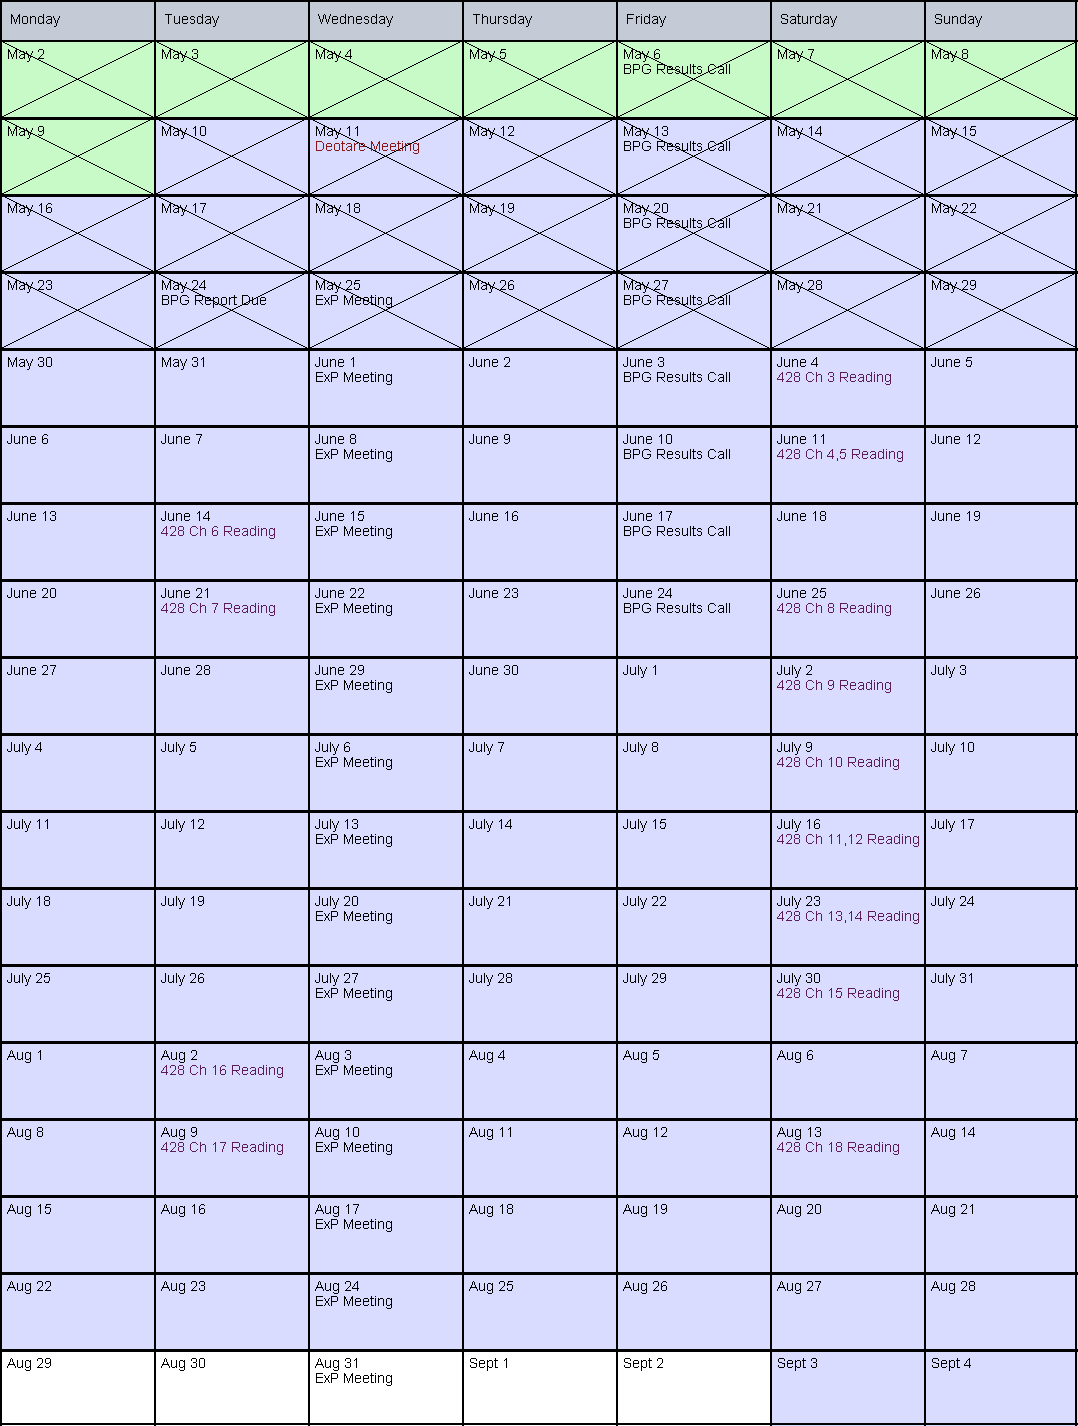
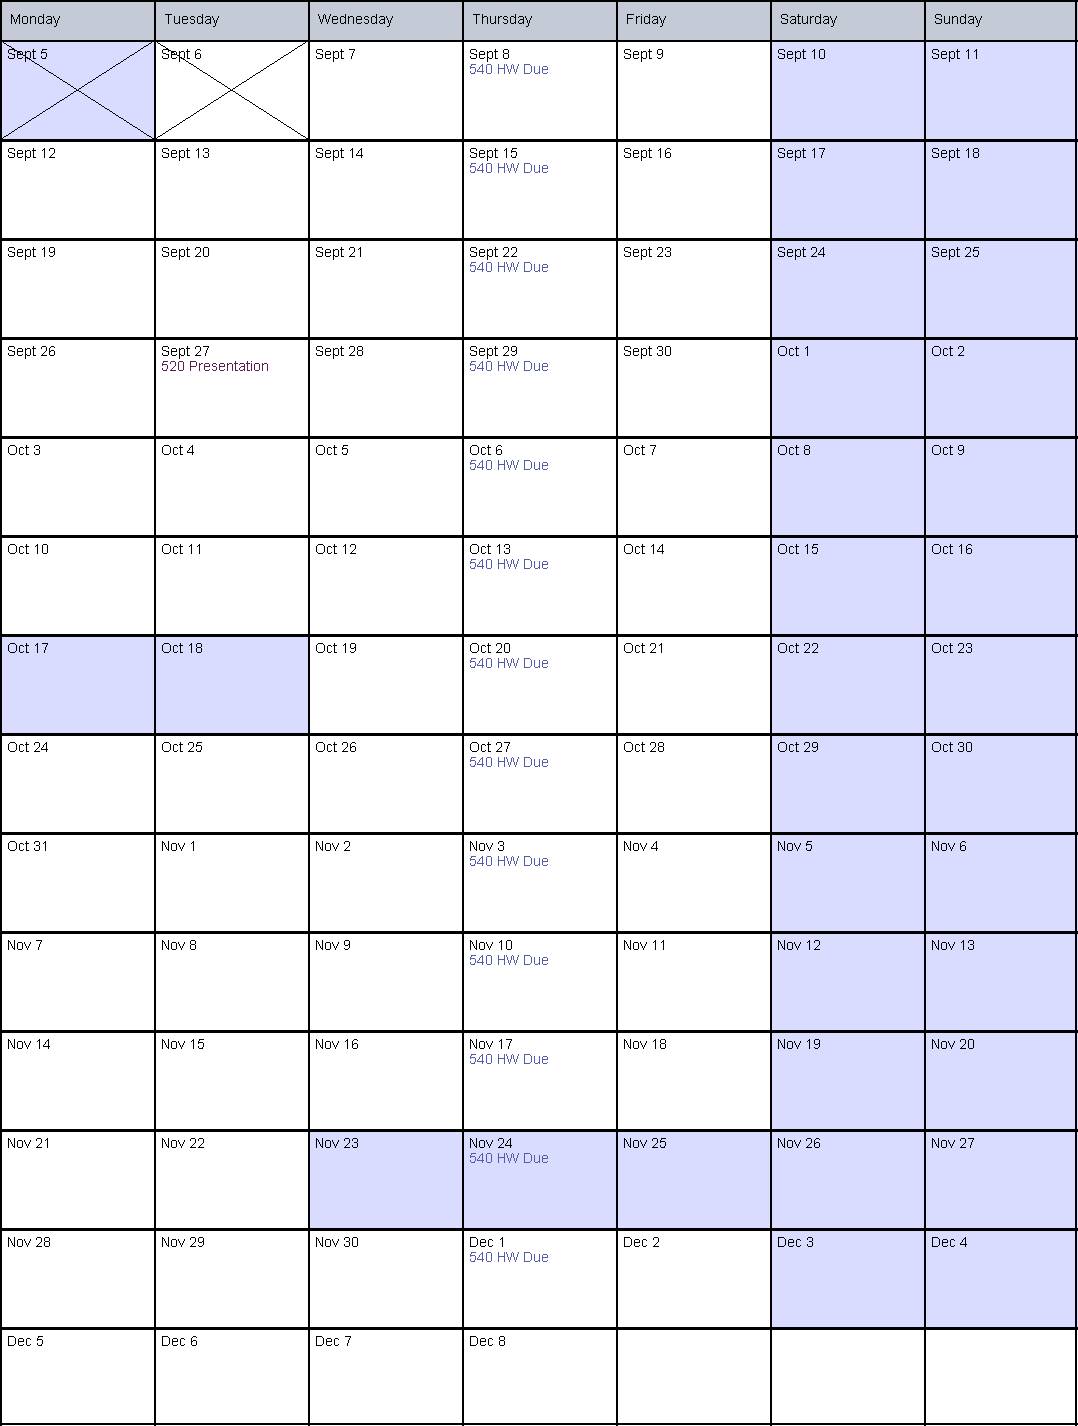
updates

diff --git a/src/Calendar.java b/src/Calendar.java
@@ -30,8 +30,8 @@ public class Calendar extends Applet implements Runnable, KeyListener {
     int[] daysPerMonth=new int[]{ 31  , 28  , 31  , 30  , 31  , 30   , 31   , 31  , 30   , 31  , 30  , 31  };
     String[] months=new String[]{"Jan","Feb","Mar","Apr","May","June","July","Aug","Sept","Oct","Nov","Dec"};
     int adj=5;
-    int start=getDayofYear(2,5);
-    int end=getDayofYear(4,9);
+    int start=getDayofYear(5,9);
+    int end=getDayofYear(8,12);
     int rows=(int)(Math.ceil((end-start)/7.0));
     int currentDay=start;
     ArrayList<String>[] events;
@@ -85,9 +85,9 @@ public class Calendar extends Applet implements Runnable, KeyListener {
     //           ADD EVENTS TO THE CALENDAR
     public void addEvents(){
         addWeeklyEvents();
-        addEvent("BPG Report Due",getDayofYear(24,5),0);
-        addEvent("Deotare Meeting",getDayofYear(11,5),2);
-        add428();
+        //addEvent("BPG Report Due",getDayofYear(24,5),0);
+        addEvent("520 Presentation",getDayofYear(27,9),4);
+        //add428();
 
     }
 
@@ -121,15 +121,15 @@ public class Calendar extends Applet implements Runnable, KeyListener {
         int fdoexp=getDayofYear(30-7,5);
         for (int i=start; i<=end; i++){
             int day=getDayOfWeek(i);
-            /*if (!(i<fdos || i>ldos)) {
-                /*if (i>secondweek){
-                    if (day == 2) {
-                        //addEvent("301 HW Due", i, 5);
+            if (i> getDayofYear(7,9) && i<getDayofYear(7,12)) {
+                if (i>secondweek){
+                    if (day == 3) {
+                        addEvent("540 HW Due", i, 1);
                     }
                 }
 
-            }*/
-            if (i<ldobpg+30) {
+            }
+            /*if (i<ldobpg+30) {
                 if (day == 4) {
                     addEvent("BPG Results Call", i, 0);
                 }
@@ -138,7 +138,7 @@ public class Calendar extends Applet implements Runnable, KeyListener {
                 if (day == 2) {
                     addEvent("ExP Meeting", i, 0);
                 }
-            }
+            }*/
         }
     }
 
@@ -153,7 +153,12 @@ public class Calendar extends Applet implements Runnable, KeyListener {
                 noSchool[i-start]=true;
             }
         }
-        //noSchool[getDayofYear(6,9)-start]=true;
+        noSchool[getDayofYear(5,9)-start]=true;
+        noSchool[getDayofYear(17,10)-start]=true;
+        noSchool[getDayofYear(18,10)-start]=true;
+        noSchool[getDayofYear(23,11)-start]=true;
+        noSchool[getDayofYear(24,11)-start]=true;
+        noSchool[getDayofYear(25,11)-start]=true;
         //noSchool[getDayofYear(18,10)-start]=true;
         //noSchool[getDayofYear(19,10)-start]=true;
         //noSchool[getDayofYear(17,1)-start]=true;
